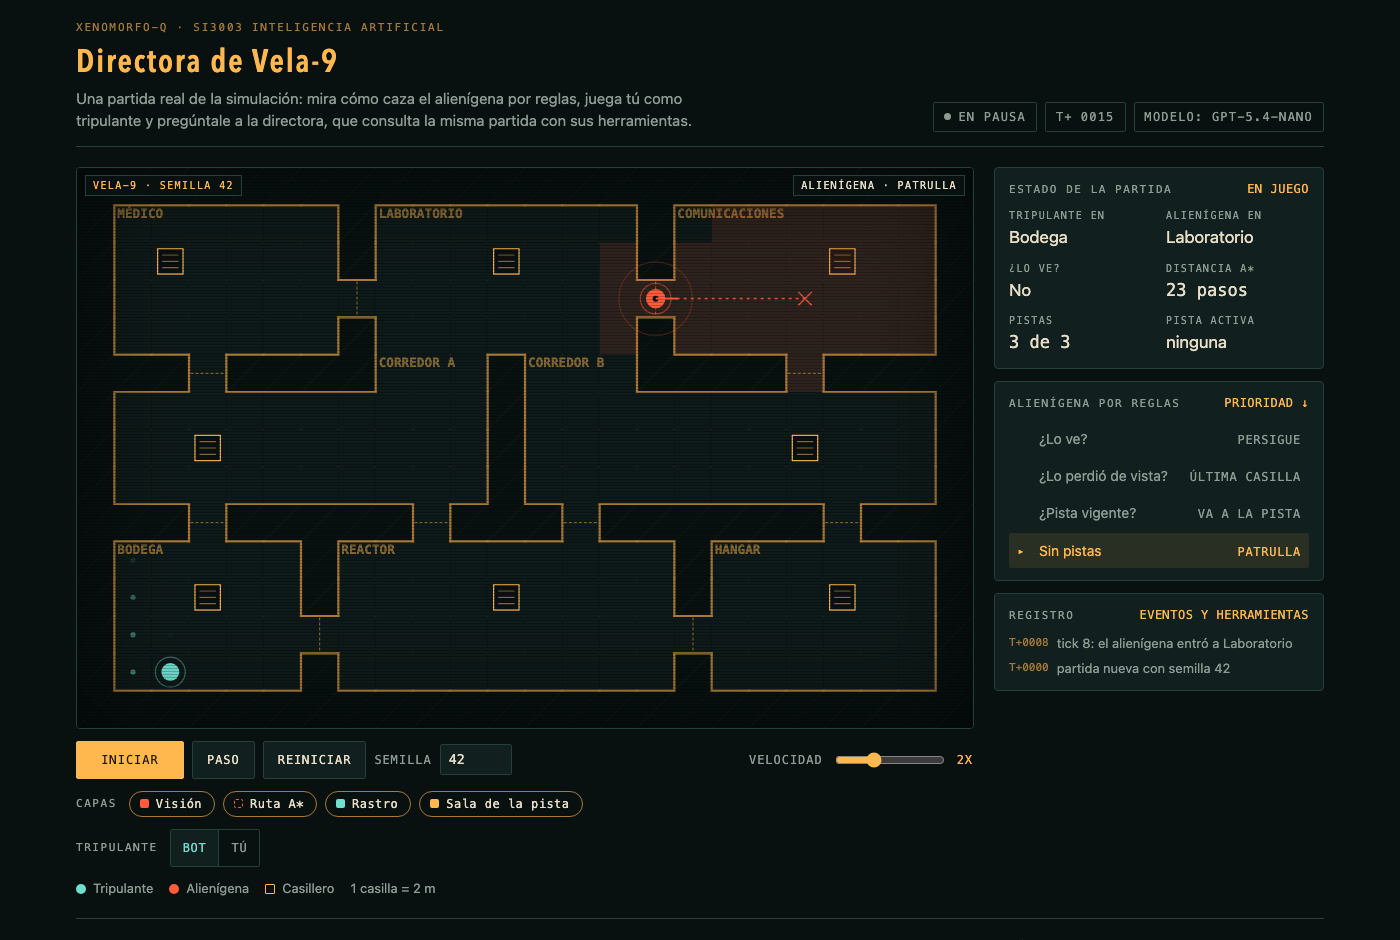
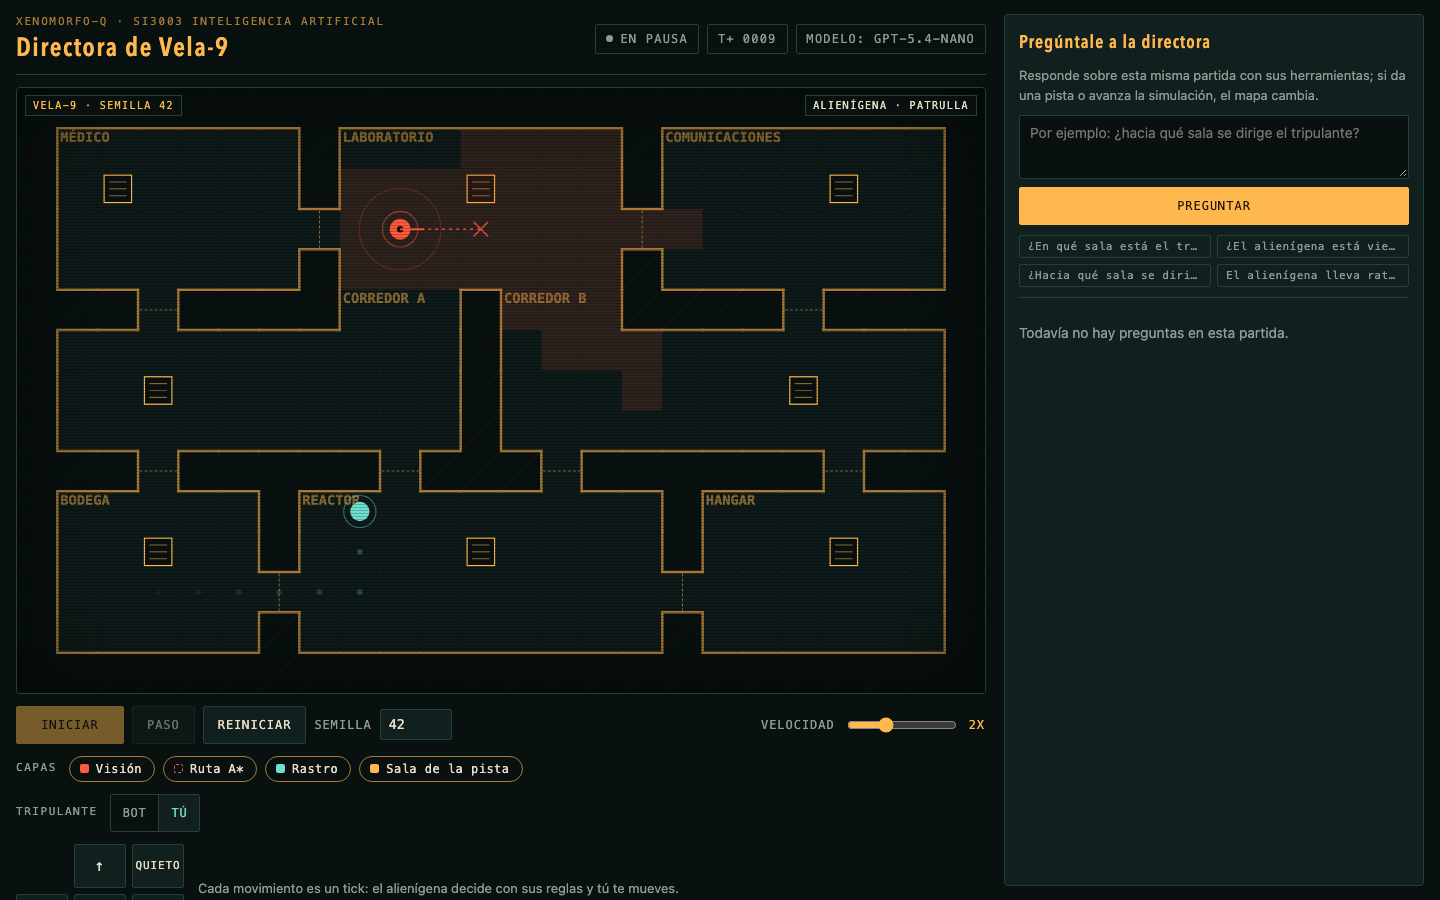
actualiza las capturas del panel a 1440x900

diff --git a/README.md b/README.md
@@ -78,9 +78,9 @@ python -m panel --semilla 7 --puerto 8080 --abrir
 
 Escucha solo en `127.0.0.1`, no usa nada de internet salvo la llamada al modelo desde el servidor, y la clave nunca llega al navegador. Sin clave, el mapa y el juego funcionan y el chat muestra el mismo mensaje de configuración que `python -m director`.
 
-![Panel en modo observar, semilla 42](docs/img/panel.png)
+![Panel en modo Tú después de unos movimientos, semilla 42, a 1440x900](docs/img/panel.png)
 
-Después de preguntar C4 en el chat, el mapa muestra la pista hacia Bodega y el avance de 10 ticks: [captura del chat](docs/img/panel_chat.png).
+A 1440x900 y a 1366x768 la caja de pregunta y la respuesta más reciente quedan al lado del mapa sin desplazar la página; el historial se desplaza dentro del panel del chat. Después de preguntar C4 en el chat, el mapa muestra la pista hacia Bodega y el avance de 10 ticks: [captura del chat](docs/img/panel_chat.png). La respuesta de esa captura salió parcial (no comparó la distancia antes y después), la misma variación de C4 que se describe en el análisis.
 
 ## Configuración de la clave
 
